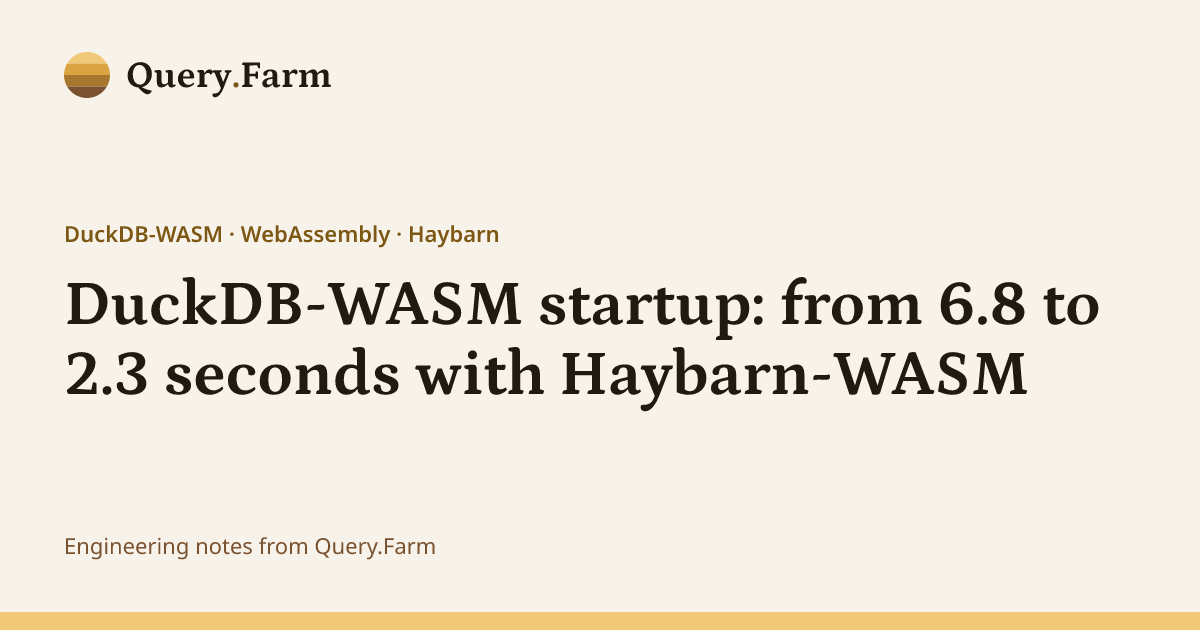
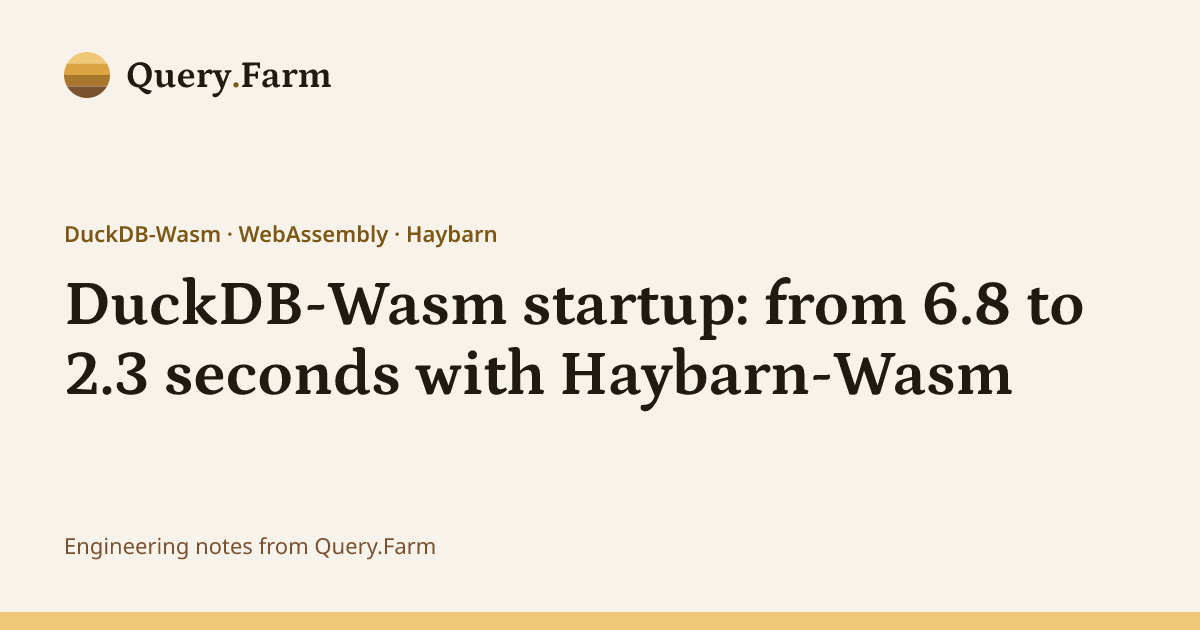
Spell Wasm, not WASM, in the DuckDB-Wasm startup article
Update the title, description, tags, alt text and body, and regenerate
the social card from the new title.

Changed region(s): [[0.3083, 0.4222, 0.925, 0.5429], [0.74, 0.5429, 0.8633, 0.6333], [0.1233, 0.3619, 0.4317, 0.3921]]

diff --git a/src/content/blog/duckdb-wasm-startup-time.md b/src/content/blog/duckdb-wasm-startup-time.md
@@ -1,23 +1,23 @@
 ---
-title: "DuckDB-WASM startup: from 6.8 to 2.3 seconds with Haybarn-WASM"
-description: "Haybarn-WASM, a drop-in fork of DuckDB-WASM, loads five extensions in 1.9 seconds, against 5.4 for upstream. Here's where the startup time went and how we cut it."
+title: "DuckDB-Wasm startup: from 6.8 to 2.3 seconds with Haybarn-Wasm"
+description: "Haybarn-Wasm, a drop-in fork of DuckDB-Wasm, loads five extensions in 1.9 seconds, against 5.4 for upstream. Here's where the startup time went and how we cut it."
 pubDate: 2026-10-19
 author: "Rusty Conover"
-tags: ["DuckDB", "DuckDB-WASM", "WebAssembly", "Haybarn", "Performance", "Extensions"]
+tags: ["DuckDB", "DuckDB-Wasm", "WebAssembly", "Haybarn", "Performance", "Extensions"]
 draft: false
 heroImage: "/media/posts/duckdb-wasm-startup-time/social.png"
-heroImageAlt: "DuckDB-WASM startup: from 6.8 to 2.3 seconds with Haybarn-WASM."
+heroImageAlt: "DuckDB-Wasm startup: from 6.8 to 2.3 seconds with Haybarn-Wasm."
 ---
 
-[Cupola](/products/cupola/), our browser-based environment for querying and exploring data, runs on [Haybarn-WASM](https://github.com/Query-farm-haybarn/haybarn-wasm), and its users were waiting several seconds before they could do anything. I was waiting too. I use Safari with the multithreaded build enabled, and every page load meant watching the engine download and compile, then load each extension, one at a time.
+[Cupola](/products/cupola/), our browser-based environment for querying and exploring data, runs on [Haybarn-Wasm](https://github.com/Query-farm-haybarn/haybarn-wasm), and its users were waiting several seconds before they could do anything. I was waiting too. I use Safari with the multithreaded build enabled, and every page load meant watching the engine download and compile, then load each extension, one at a time.
 
-The multithreaded build should be the better choice, since queries can use every core. On our test machine it was the slower one to start. Haybarn-WASM 1.5.6-rc2 took 6.8 seconds to get a page to six loaded extensions ([icu](https://duckdb.org/docs/stable/core_extensions/icu), [autocomplete](https://duckdb.org/docs/stable/core_extensions/autocomplete), [spatial](https://duckdb.org/docs/stable/core_extensions/spatial/overview), [iceberg](https://duckdb.org/docs/stable/core_extensions/iceberg/overview), [grainlift](/products/grainlift/) and [ducklake](https://duckdb.org/docs/stable/core_extensions/ducklake)), and the single-threaded build took 5.4.
+The multithreaded build should be the better choice, since queries can use every core. On our test machine it was the slower one to start. Haybarn-Wasm 1.5.6-rc2 took 6.8 seconds to get a page to six loaded extensions ([icu](https://duckdb.org/docs/stable/core_extensions/icu), [autocomplete](https://duckdb.org/docs/stable/core_extensions/autocomplete), [spatial](https://duckdb.org/docs/stable/core_extensions/spatial/overview), [iceberg](https://duckdb.org/docs/stable/core_extensions/iceberg/overview), [grainlift](/products/grainlift/) and [ducklake](https://duckdb.org/docs/stable/core_extensions/ducklake)), and the single-threaded build took 5.4.
 
 With 1.5.6-rc6, it's 2.3 seconds threaded and 2.0 single-threaded. This post covers where the time went, what we changed, and the one call you need to add to your code to get all of the benefits.
 
-## Switching from DuckDB-WASM
+## Switching from DuckDB-Wasm
 
-Haybarn-WASM is Query.Farm's fork of [DuckDB-WASM](https://github.com/duckdb/duckdb-wasm), built on [Haybarn](/products/haybarn/), our [DuckDB](https://duckdb.org/) distribution. The JavaScript API is the same, so if your app uses `@duckdb/duckdb-wasm`, switching is a package swap:
+Haybarn-Wasm is Query.Farm's fork of [DuckDB-Wasm](https://github.com/duckdb/duckdb-wasm), built on [Haybarn](/products/haybarn/), our [DuckDB](https://duckdb.org/) distribution. The JavaScript API is the same, so if your app uses `@duckdb/duckdb-wasm`, switching is a package swap:
 
 ```sh
 npm install @haybarn/haybarn-wasm
@@ -36,7 +36,7 @@ I compared the two on one machine, loading the five extensions both projects pub
 
 <!-- bars: row -->
 
-| From page start | DuckDB-WASM 1.33.1-dev57.0 | Haybarn-WASM 1.5.6-rc6 | Haybarn-WASM with prefetch |
+| From page start | DuckDB-Wasm 1.33.1-dev57.0 | Haybarn-Wasm 1.5.6-rc6 | Haybarn-Wasm with prefetch |
 |---|---:|---:|---:|
 | Single-threaded build, first query result | 1.3 s | 0.7 s | 0.7 s |
 | Single-threaded build, five extensions loaded | 5.4 s | 3.3 s | **1.9 s** |
@@ -46,7 +46,7 @@ A few practical details about switching, like where to load the files from, are 
 
 ## Where the time went
 
-If you already use Haybarn-WASM, upgrading gets you the middle column, and adding the prefetch call gets you the last:
+If you already use Haybarn-Wasm, upgrading gets you the middle column, and adding the prefetch call gets you the last:
 
 <!-- bars: row -->
 
@@ -79,7 +79,7 @@ These changes make up the middle column: about three seconds on both builds. Wha
 
 ### Six `LOAD`s in a row took 2.2 seconds
 
-`LOAD` runs inside a SQL statement, and SQL in DuckDB-WASM runs synchronously in the worker. Each `LOAD` downloads its extension with a blocking request, hashes the file, checks the signature, compiles the module, and only then lets the next one start. While the engine hashes and compiles, the network sits idle.
+`LOAD` runs inside a SQL statement, and SQL in DuckDB-Wasm runs synchronously in the worker. Each `LOAD` downloads its extension with a blocking request, hashes the file, checks the signature, compiles the module, and only then lets the next one start. While the engine hashes and compiles, the network sits idle.
 
 I hadn't expected the hashing to matter. The signature check needs a SHA-256 of the whole file, and the engine computes it with its own SHA-256 code, compiled to WebAssembly. The files are larger than their downloads, because they arrive compressed: spatial is 4.8 MB over the network and 26 MB to hash. The browser's [WebCrypto SHA-256](https://developer.mozilla.org/en-US/docs/Web/API/SubtleCrypto/digest) is native code and more than six times faster on the same bytes. For the eight files in our list, the engine spends 400 ms hashing, one file at a time:
 
@@ -161,39 +161,39 @@ One more emscripten fix, [still in review](https://github.com/emscripten-core/em
 
 ## Repeat visits
 
-Chrome can keep compiled WebAssembly between visits, so a returning user shouldn't have to compile the engine again. It wasn't doing that for DuckDB-WASM, because the code that reported download progress wrapped the response in a way that hid it from Chrome's cache. With that fixed, opening the database on a repeat visit takes 87 ms instead of about 230. Extensions compiled during a prefetch are cached too: on a repeat visit, the prefetch and six `LOAD`s take 1,009 ms instead of 1,362, and the page has all six loaded at 1.8 seconds instead of 2.2.
+Chrome can keep compiled WebAssembly between visits, so a returning user shouldn't have to compile the engine again. It wasn't doing that for DuckDB-Wasm, because the code that reported download progress wrapped the response in a way that hid it from Chrome's cache. With that fixed, opening the database on a repeat visit takes 87 ms instead of about 230. Extensions compiled during a prefetch are cached too: on a repeat visit, the prefetch and six `LOAD`s take 1,009 ms instead of 1,362, and the page has all six loaded at 1.8 seconds instead of 2.2.
 
 Two caveats. Current Chrome waits minutes before writing that cache, because of a V8 bug whose [fix](https://chromium.googlesource.com/v8/v8/+/cd68728aee4b) has landed and will ship in a coming release. And Safari doesn't keep compiled WebAssembly between visits at all, so in Safari, where I first noticed the wait, every visit is a first visit. That's why the first-visit work above mattered most to me.
 
-## If you use DuckDB-WASM from upstream
+## If you use DuckDB-Wasm from upstream
 
 Most of these fixes aren't specific to Haybarn, and I've sent them upstream:
 
 - emscripten: [lazy linking setup](https://github.com/emscripten-core/emscripten/pull/27993), [fewer export copies](https://github.com/emscripten-core/emscripten/pull/27996), [freeing an extension's bytes after load](https://github.com/emscripten-core/emscripten/pull/28002) and [on every thread](https://github.com/emscripten-core/emscripten/pull/28007), and [reading global mutability instead of probing it](https://github.com/emscripten-core/emscripten/pull/28006).
 - duckdb-wasm: [letting Chrome cache the compiled engine](https://github.com/duckdb/duckdb-wasm/pull/2278), [keeping the threaded build's memory views current](https://github.com/duckdb/duckdb-wasm/pull/2276), and [not caching a failed extension download in Node.js](https://github.com/duckdb/duckdb-wasm/pull/2279).
 
-They're open for review. Until they land, Haybarn-WASM carries them as patches. `prefetchExtensions()` depends on how Haybarn checks extension signatures, so for now it's only in Haybarn-WASM.
+They're open for review. Until they land, Haybarn-Wasm carries them as patches. `prefetchExtensions()` depends on how Haybarn checks extension signatures, so for now it's only in Haybarn-Wasm.
 
 ## How we measured
 
 - **Machine:** AWS `c6g.12xlarge` (Graviton2), the browser pinned to 16 cores, headless Chromium 156 driven by [Playwright](https://playwright.dev/). Every run used a fresh browser and profile, and the builds were interleaved so drift affected them all alike.
-- **DuckDB-WASM comparison:** the published `@duckdb/duckdb-wasm` 1.33.1-dev57.0 package (npm `latest`), with extensions from `extensions.duckdb.org`, against Haybarn-WASM 1.5.6-rc6 with extensions from `haybarn-extensions.query.farm`. Five interleaved runs each, same page and machine. grainlift was left out because DuckDB's repository doesn't publish it for WebAssembly.
+- **DuckDB-Wasm comparison:** the published `@duckdb/duckdb-wasm` 1.33.1-dev57.0 package (npm `latest`), with extensions from `extensions.duckdb.org`, against Haybarn-Wasm 1.5.6-rc6 with extensions from `haybarn-extensions.query.farm`. Five interleaved runs each, same page and machine. grainlift was left out because DuckDB's repository doesn't publish it for WebAssembly.
 - **Builds:** the published `@haybarn/haybarn-wasm` 1.5.6-rc2 package, and a local build of the rc6 code, made with the same toolchain before its package was published.
 - **Workload:** instantiate, open, `SELECT 1`, then `LOAD` icu, autocomplete, spatial, iceberg, grainlift and ducklake from `haybarn-extensions.query.farm`, then a multithreaded query. With prefetch, the list was those six plus avro and parquet. Five runs of each build; the tables show medians. "Six extensions loaded" is measured from the page starting, and includes the prefetch where there is one.
 - **Hashing:** each rc6 extension file from the CDN, hashed in the same worker by the engine's `sha256()` SQL function (the same SHA-256 code the signature check uses, minus the time to read the value) and by `crypto.subtle.digest` in 1 MB chunks, the way the prefetch does it. Five runs of each build in fresh browsers; the chart shows medians.
 - **Memory:** [`performance.measureUserAgentSpecificMemory()`](https://developer.mozilla.org/en-US/docs/Web/API/Performance/measureUserAgentSpecificMemory) in the same Chromium, threaded build, extensions served from a local mirror. One reading per page, after startup, after the prefetch, or after the six `LOAD`s, with five runs for each, except three after startup. The readings were identical across runs, since WebAssembly memory grows in fixed steps. The single-threaded figures come from Node.js, measuring how much the process grew across the `LOAD`s.
 - **Repeat visits:** Chrome was told to write its WebAssembly code cache immediately (`--js-flags=--wasm-caching-timeout-ms=0`), which is how it will behave once the V8 fix ships. Each run was a first visit and then a repeat visit with the same profile, four runs of the single-threaded build with the eight-file prefetch.
-- **Cupola:** headless Chromium on an Apple Silicon laptop against the development server, four runs each, Haybarn-WASM rc5 against rc6 with prefetch, while Cupola loaded nine extensions.
+- **Cupola:** headless Chromium on an Apple Silicon laptop against the development server, four runs each, Haybarn-Wasm rc5 against rc6 with prefetch, while Cupola loaded nine extensions.
 
 ## Notes on switching
 
-### Extensions on DuckDB-WASM's multithreaded build
+### Extensions on DuckDB-Wasm's multithreaded build
 
-None of the extensions loaded on DuckDB-WASM's multithreaded build. By default `LOAD` never returned, and with the thread count set to one first, it failed with a `LinkError`. Those extension binaries are built without shared memory, which the threaded engine needs. Haybarn builds its threaded extensions with shared memory and drops to one thread around each `LOAD` for you.
+None of the extensions loaded on DuckDB-Wasm's multithreaded build. By default `LOAD` never returned, and with the thread count set to one first, it failed with a `LinkError`. Those extension binaries are built without shared memory, which the threaded engine needs. Haybarn builds its threaded extensions with shared memory and drops to one thread around each `LOAD` for you.
 
 ### Other details
 
 - The package is larger than [jsDelivr](https://www.jsdelivr.com/) allows, so `getJsDelivrBundles()` won't find it. Serve the files yourself, or load them from [unpkg](https://unpkg.com/).
 - Extensions come from Haybarn's repository at `haybarn-extensions.query.farm`, signed with Haybarn's key. It has its own builds of DuckDB's core and community extensions, including some that aren't published for WebAssembly upstream, such as grainlift. `INSTALL … FROM community` works as before.
-- The multithreaded build still needs a [cross-origin isolated](https://web.dev/articles/coop-coep) page (`Cross-Origin-Opener-Policy: same-origin` and `Cross-Origin-Embedder-Policy: require-corp`), as with DuckDB-WASM.
-- Haybarn-WASM 1.5.6-rc6 runs engine 1.5.6; DuckDB-WASM 1.33.1-dev57.0 runs DuckDB 1.5.4. Haybarn-WASM releases are currently release candidates.
+- The multithreaded build still needs a [cross-origin isolated](https://web.dev/articles/coop-coep) page (`Cross-Origin-Opener-Policy: same-origin` and `Cross-Origin-Embedder-Policy: require-corp`), as with DuckDB-Wasm.
+- Haybarn-Wasm 1.5.6-rc6 runs engine 1.5.6; DuckDB-Wasm 1.33.1-dev57.0 runs DuckDB 1.5.4. Haybarn-Wasm releases are currently release candidates.
